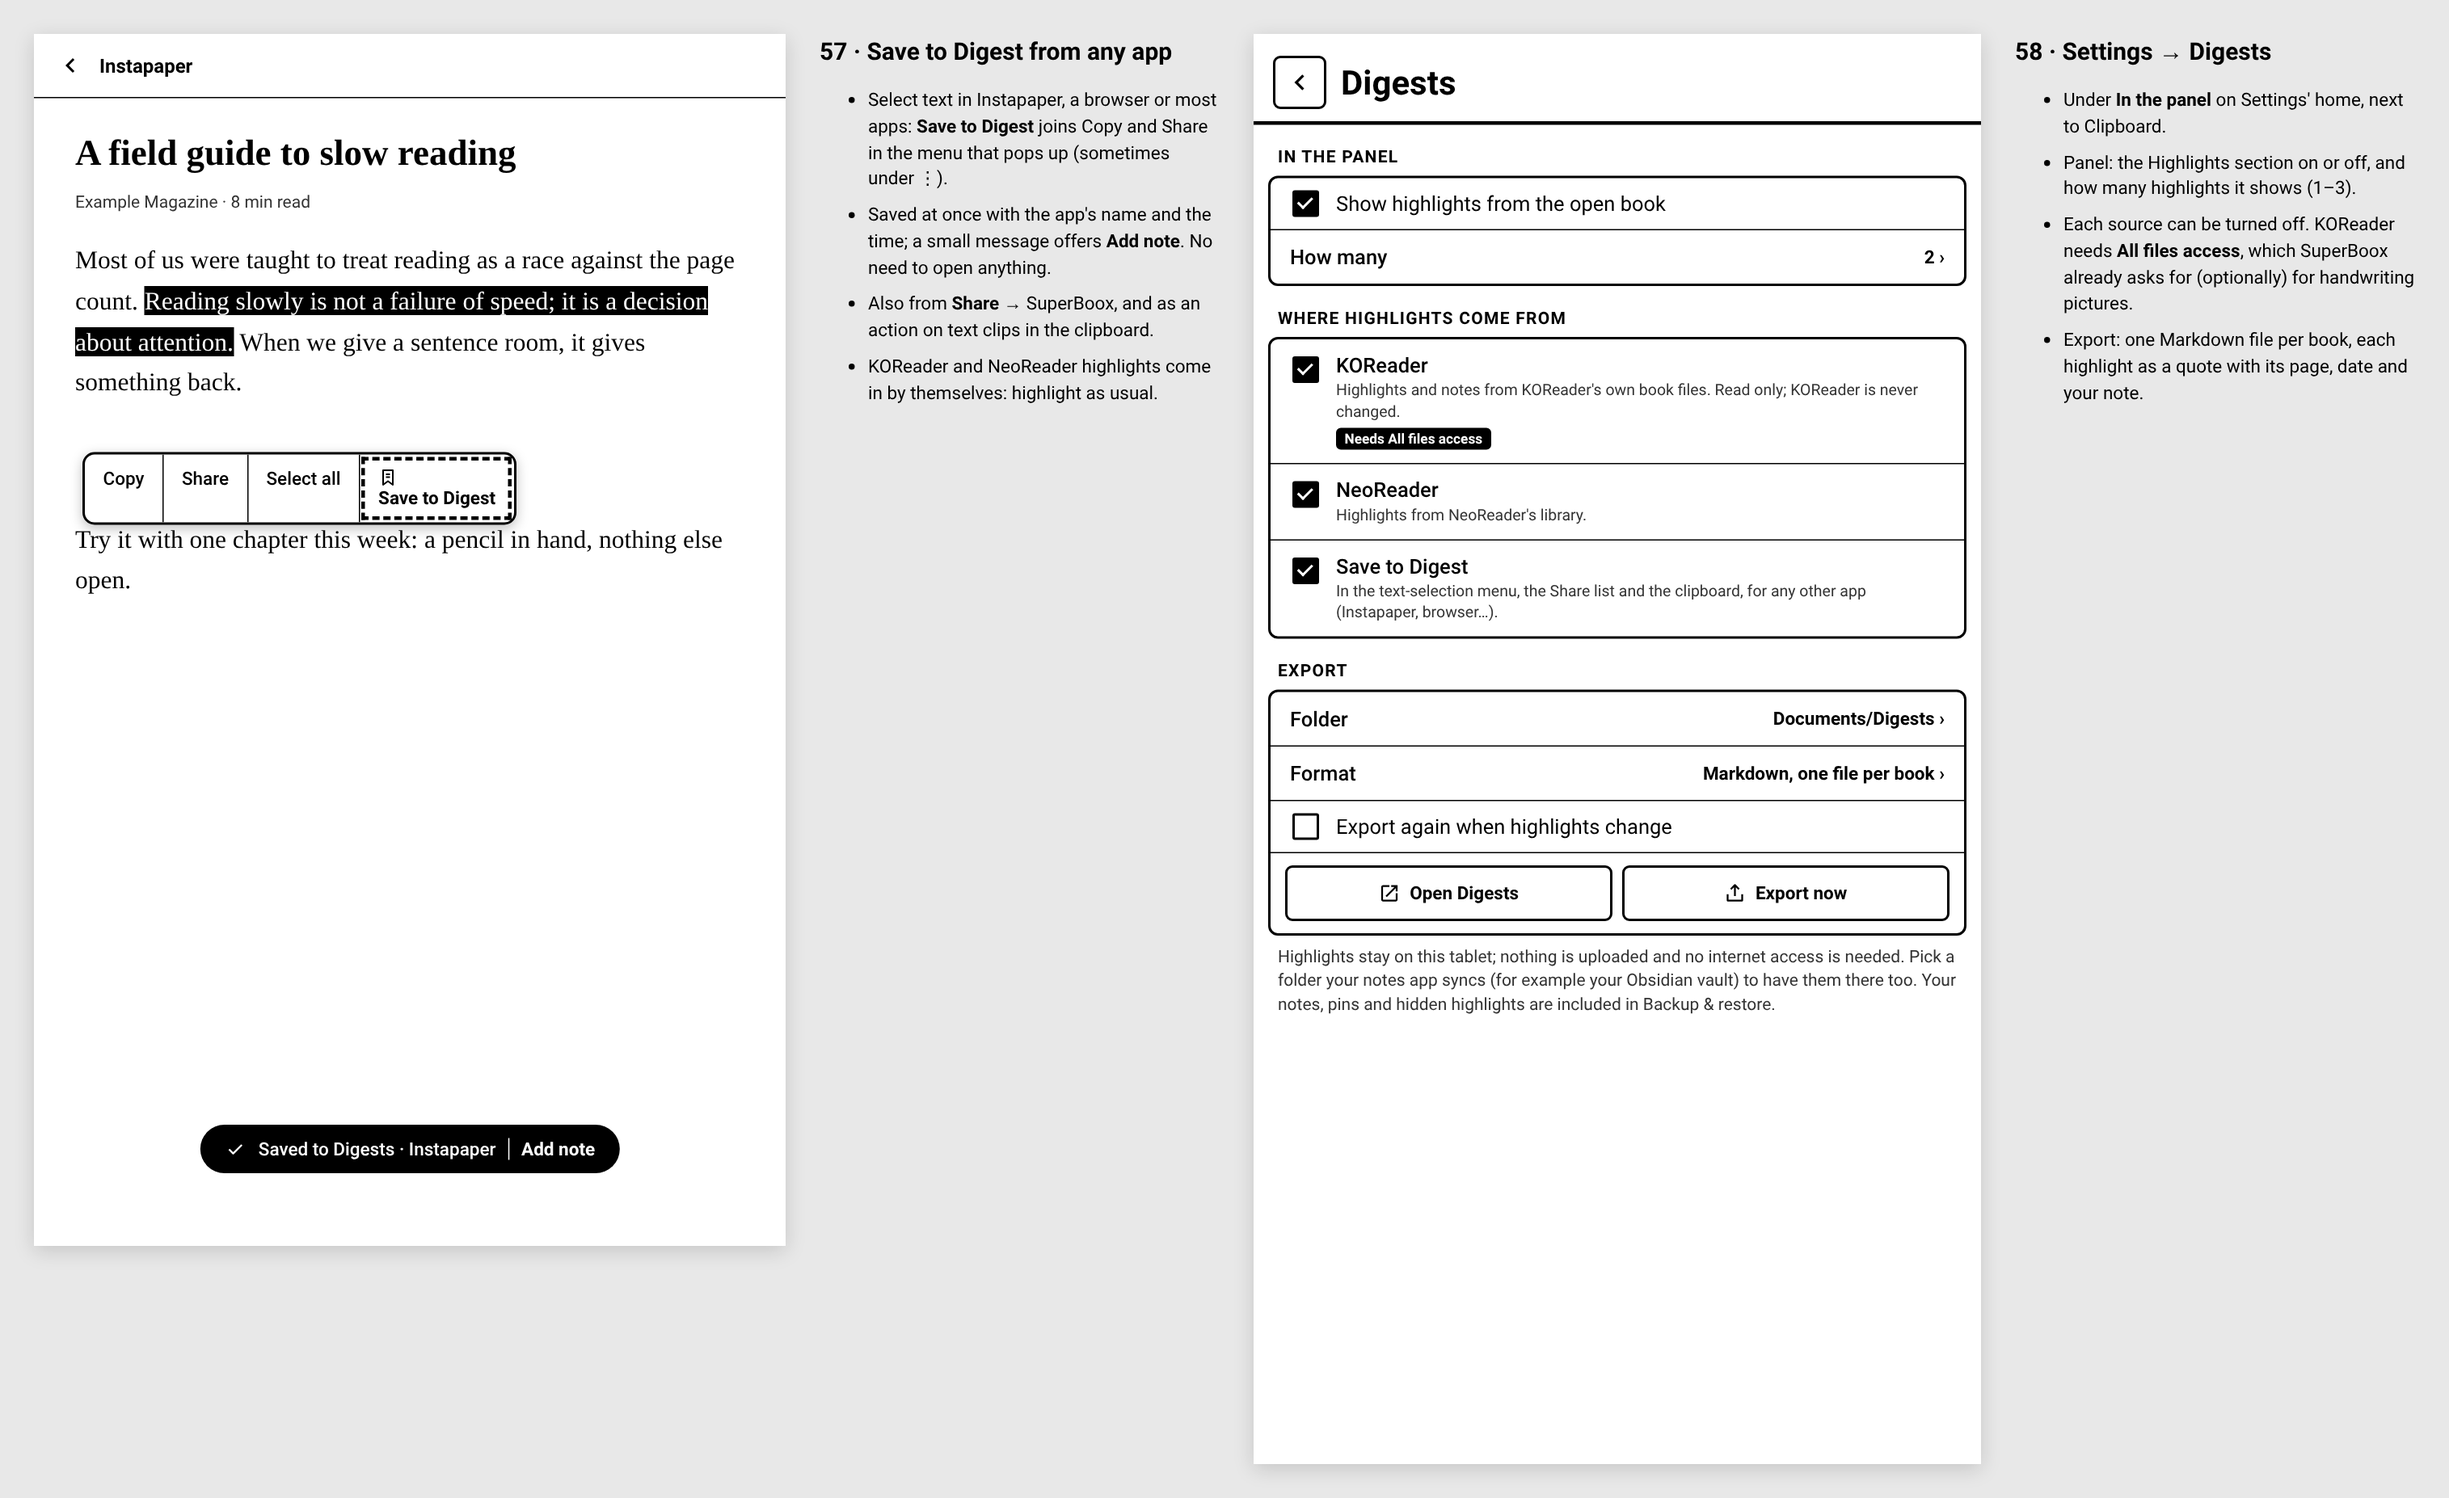
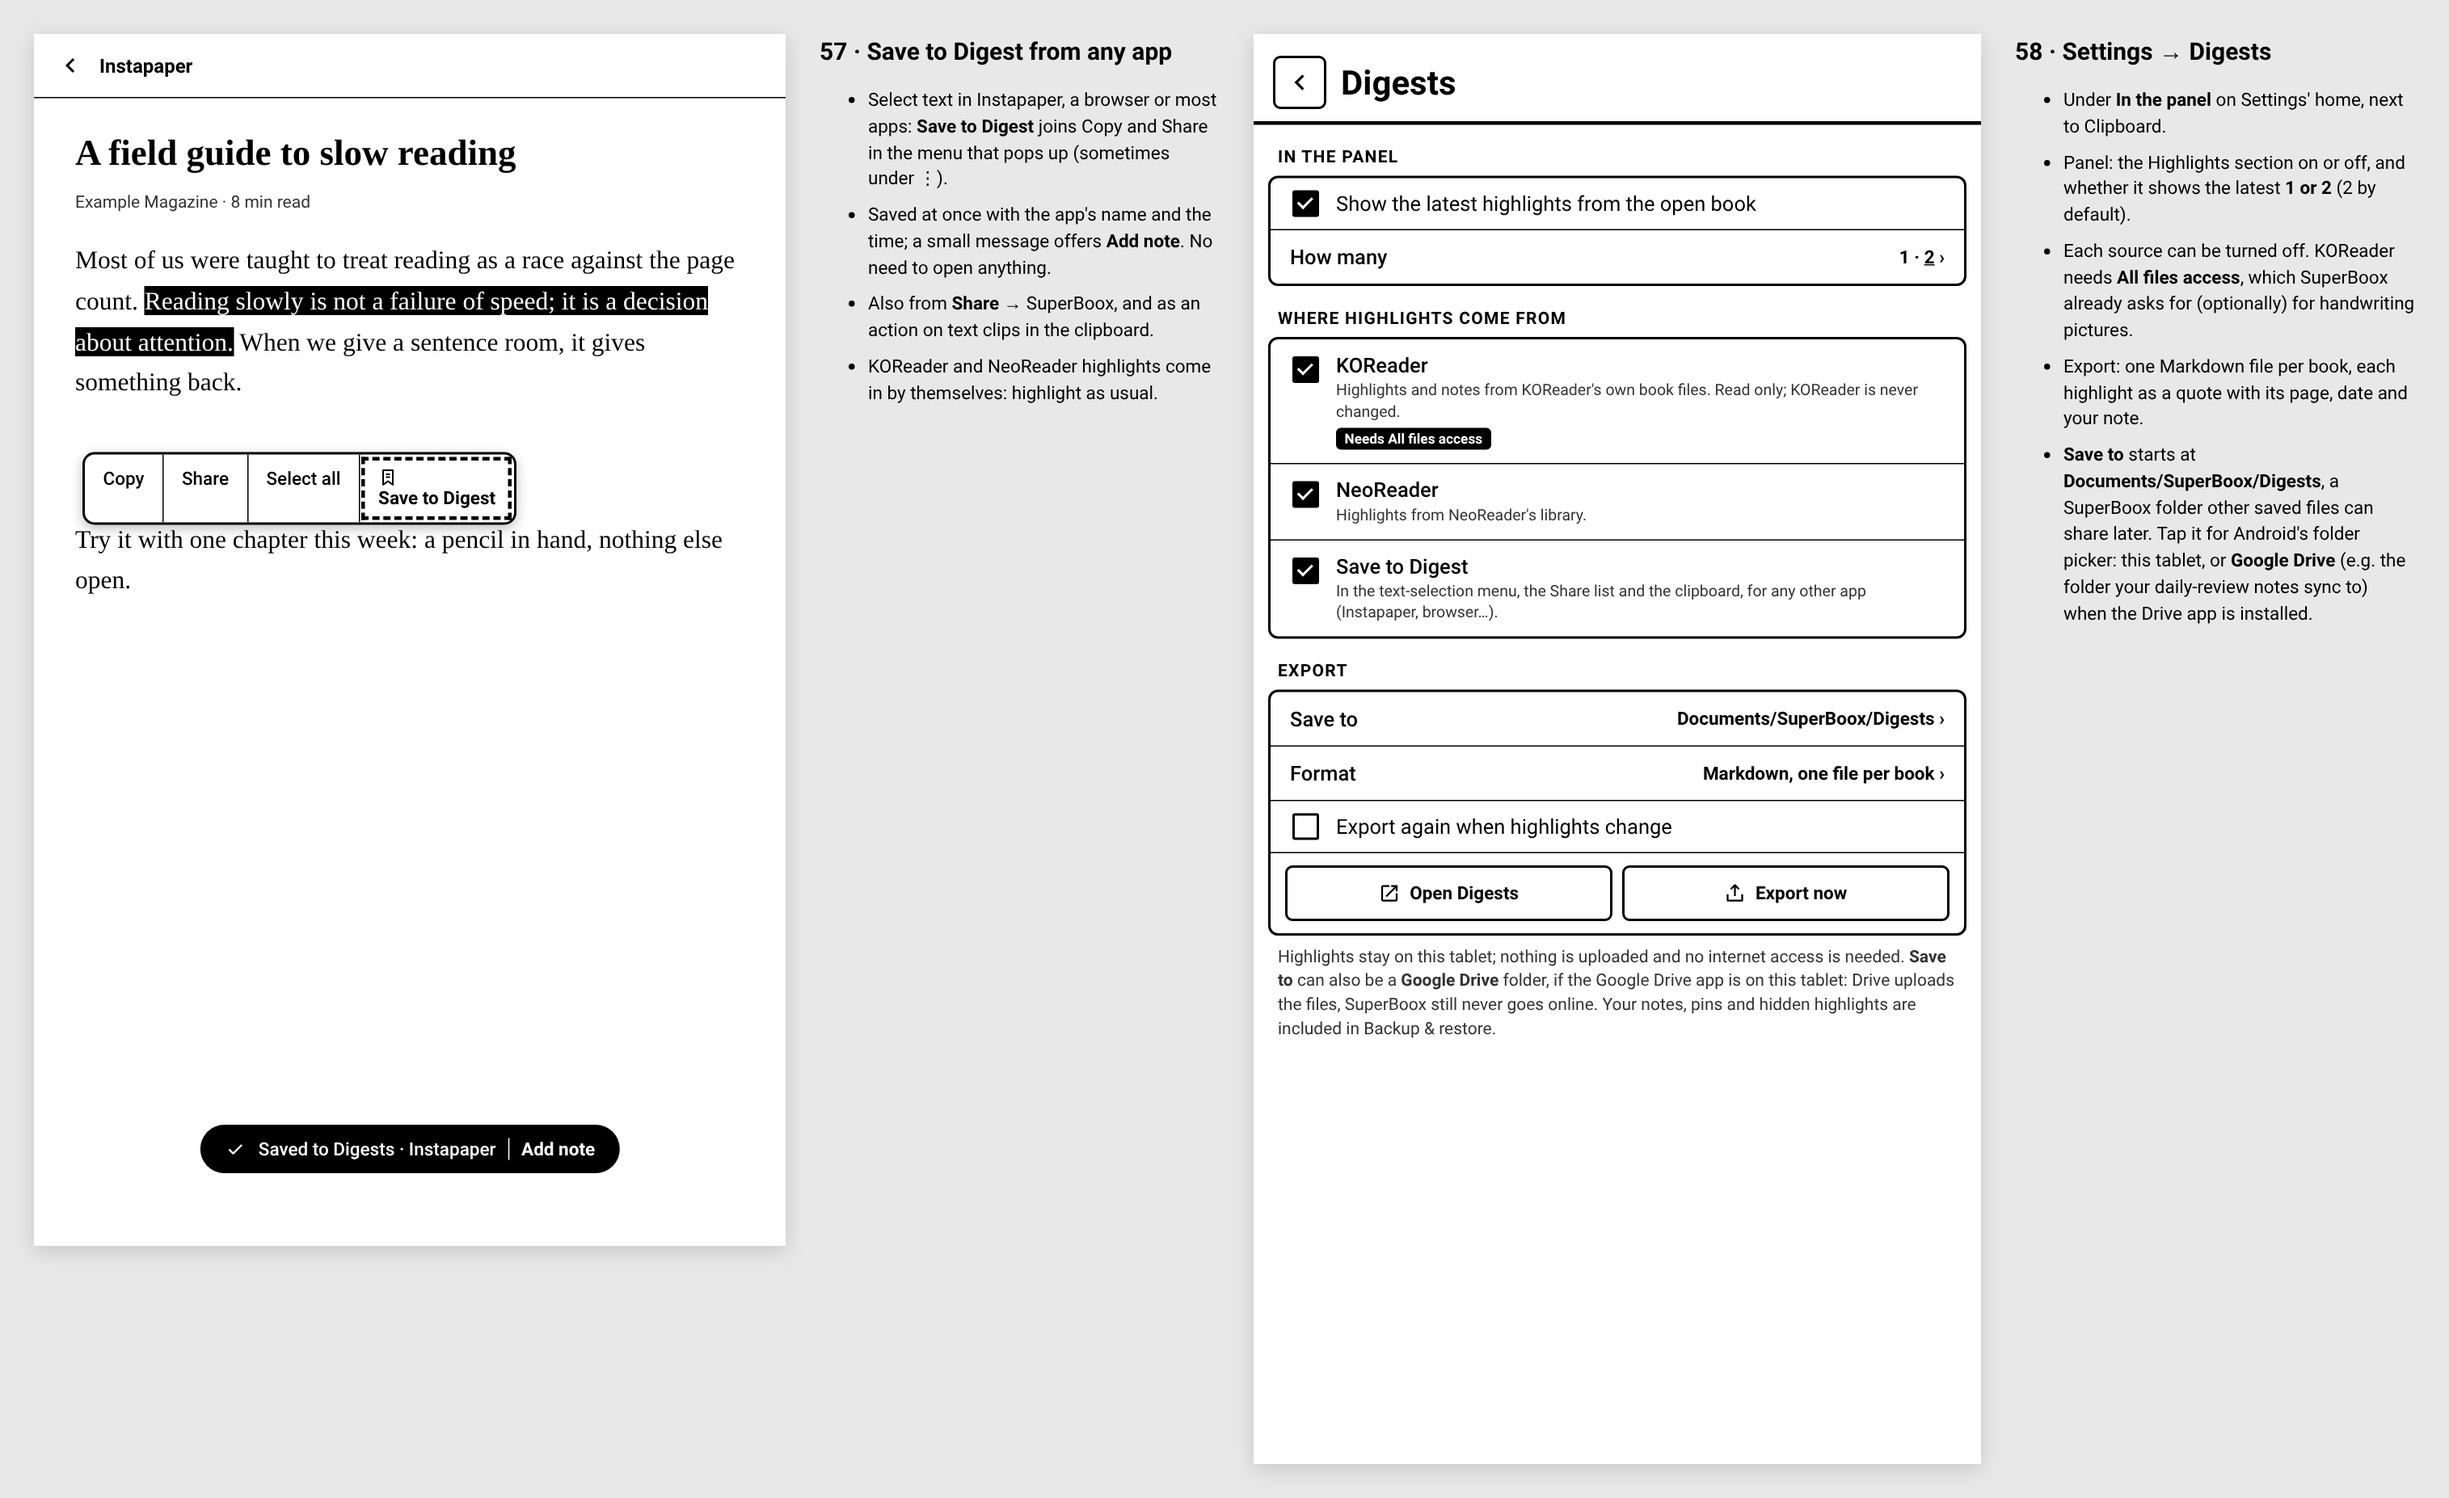
Digests mockups: panel section 1 or 2, export to Documents/SuperBoox/Digests or Google Drive
Claude-Session: https://claude.ai/code/session_018hzrAjqxwJr5HFxLW5Xn9C

diff --git a/docs/mockups/digests.html b/docs/mockups/digests.html
@@ -436,7 +436,8 @@ const D1 = () => shell(topBar(false) + qc + lastRows.replace("Field Guide · Neo
   "No new top-bar button. A small <b>Highlights</b> section (dashed outline) sits under Last Opened, for the book that's open, or the last one you read.",
   "Its 2 newest highlights, with the page. Tap one to copy it, hold it for Open at page · Add note · Share.",
   "<b>See all</b> opens the Digests screen on that book.",
-  "Shown only when that book has highlights; it can be turned off or set to 1–3 in Settings. Quick Access gets the rest of the space, as now.",
+  "Shown only when that book has highlights. It can be turned off, or set to show the latest 1 or 2, in Settings. Quick Access gets the rest of the space, as now.",
+  "Meant as a glance and a shortcut: the full view is one tap away.",
 ]);
 
 // 54 · Digests screen, portrait
@@ -506,23 +507,24 @@ const D5 = () => `<div class="tablet"><div class="bar0">${g("left", 24)} Instapa
 // 58 · Settings → Digests
 const D6 = () => `<div class="set" style="width:600px;height:1180px">${head("Digests")}
   <div class="sec">IN THE PANEL</div><div class="card">
-    <div class="check"><div class="box on"></div>Show highlights from the open book</div>
-    <div class="choice">How many<b>2 ›</b></div></div>
+    <div class="check"><div class="box on"></div>Show the latest highlights from the open book</div>
+    <div class="choice">How many<b>1 · <u>2</u> ›</b></div></div>
   <div class="sec">WHERE HIGHLIGHTS COME FROM</div><div class="card">
     ${keepRow(true, "KOReader", "Highlights and notes from KOReader's own book files. Read only; KOReader is never changed.", "Needs All files access", true)}
     ${keepRow(true, "NeoReader", "Highlights from NeoReader's library.", "", false)}
     ${keepRow(true, "Save to Digest", "In the text-selection menu, the Share list and the clipboard, for any other app (Instapaper, browser…).", "", false)}
   </div>
   <div class="sec">EXPORT</div><div class="card">
-    <div class="choice">Folder<b>Documents/Digests ›</b></div>
+    <div class="choice">Save to<b>Documents/SuperBoox/Digests ›</b></div>
     <div class="choice">Format<b>Markdown, one file per book ›</b></div>
     <div class="check"><div class="box"></div>Export again when highlights change</div>
     <div class="btns"><div class="btn">${g("open", 18)}&nbsp; Open Digests</div><div class="btn">${g("export", 18)}&nbsp; Export now</div></div></div>
-  <div class="para">Highlights stay on this tablet; nothing is uploaded and no internet access is needed. Pick a folder your notes app syncs (for example your Obsidian vault) to have them there too. Your notes, pins and hidden highlights are included in Backup &amp; restore.</div></div>` + notes("58 · Settings → Digests", [
+  <div class="para">Highlights stay on this tablet; nothing is uploaded and no internet access is needed. <b>Save to</b> can also be a <b>Google Drive</b> folder, if the Google Drive app is on this tablet: Drive uploads the files, SuperBoox still never goes online. Your notes, pins and hidden highlights are included in Backup &amp; restore.</div></div>` + notes("58 · Settings → Digests", [
   "Under <b>In the panel</b> on Settings' home, next to Clipboard.",
-  "Panel: the Highlights section on or off, and how many highlights it shows (1–3).",
+  "Panel: the Highlights section on or off, and whether it shows the latest <b>1 or 2</b> (2 by default).",
   "Each source can be turned off. KOReader needs <b>All files access</b>, which SuperBoox already asks for (optionally) for handwriting pictures.",
   "Export: one Markdown file per book, each highlight as a quote with its page, date and your note.",
+  "<b>Save to</b> starts at <b>Documents/SuperBoox/Digests</b>, a SuperBoox folder other saved files can share later. Tap it for Android's folder picker: this tablet, or <b>Google Drive</b> (e.g. the folder your daily-review notes sync to) when the Drive app is installed.",
 ]);
 const h = location.hash;
 document.getElementById("stage").innerHTML = ({ "#2": () => D3(), "#3": () => D4(), "#4": () => D5() + D6() }[h] || (() => D1() + D2()))();

diff --git a/docs/HANDOFF.md b/docs/HANDOFF.md
@@ -477,4 +477,9 @@ An Android overlay app for ONYX BOOX e-ink tablets (user's device: **Note Air 6C
   - 56: split screen beside the book, following the open book, with typed notes.
   - 57: Save to Digest (ACTION_PROCESS_TEXT, the share target, a clipboard action).
   - 58: Settings → Digests.
-  - Awaiting review.
+  - Decisions:
+    - Panel section can be turned on or off, and shows the latest 1 or 2 highlights (default 2). It's a glance plus a shortcut to the full view.
+    - Export defaults to Documents/SuperBoox/Digests: a shared SuperBoox folder.
+    - Google Drive works through the Drive app's folder in Android's picker (SAF). SuperBoox stays offline.
+    - The user doesn't sync Obsidian on the tablet; their notes sync to Drive for a daily review.
+    - "Digests" is the app-icon name for now.
